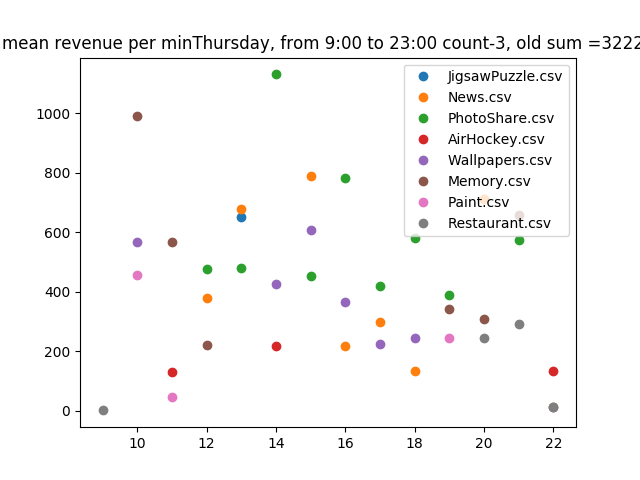
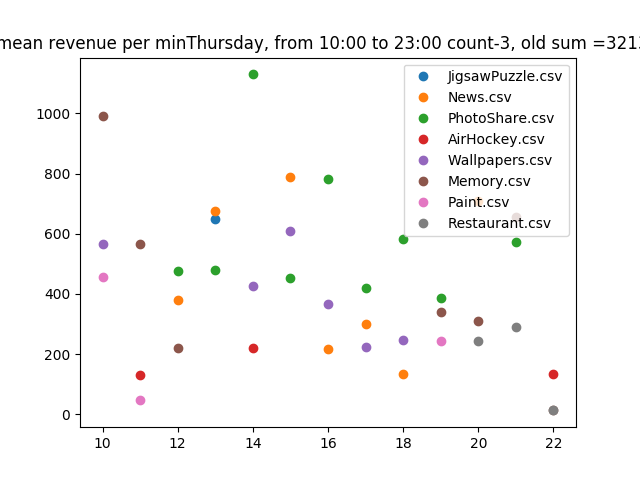
[visualize] best average revenue per min

diff --git a/src/main.py b/src/main.py
@@ -21,7 +21,7 @@ def prepare_data():
 
 def show_best_apps(count):
     for weekday in range(0, 7):
-        visualize.show_apps_sum_revenue(count=count, weekday=weekday, time_range=[9, 23])
+        visualize.show_apps_sum_revenue(count=count, weekday=weekday, time_range=[10, 23])
 
 
 if __name__ == '__main__':
